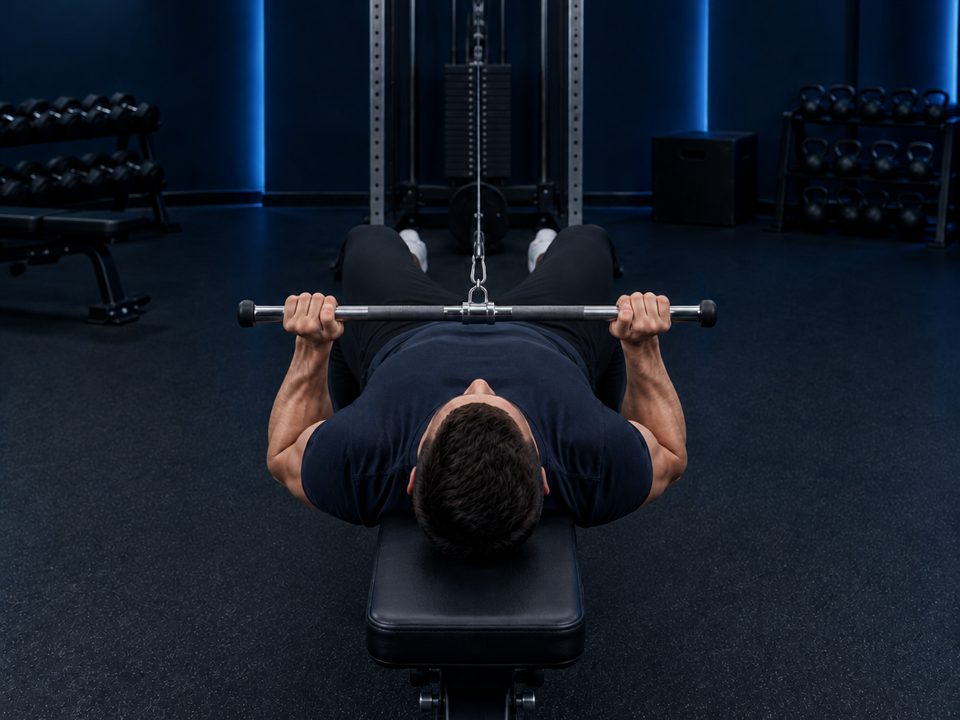
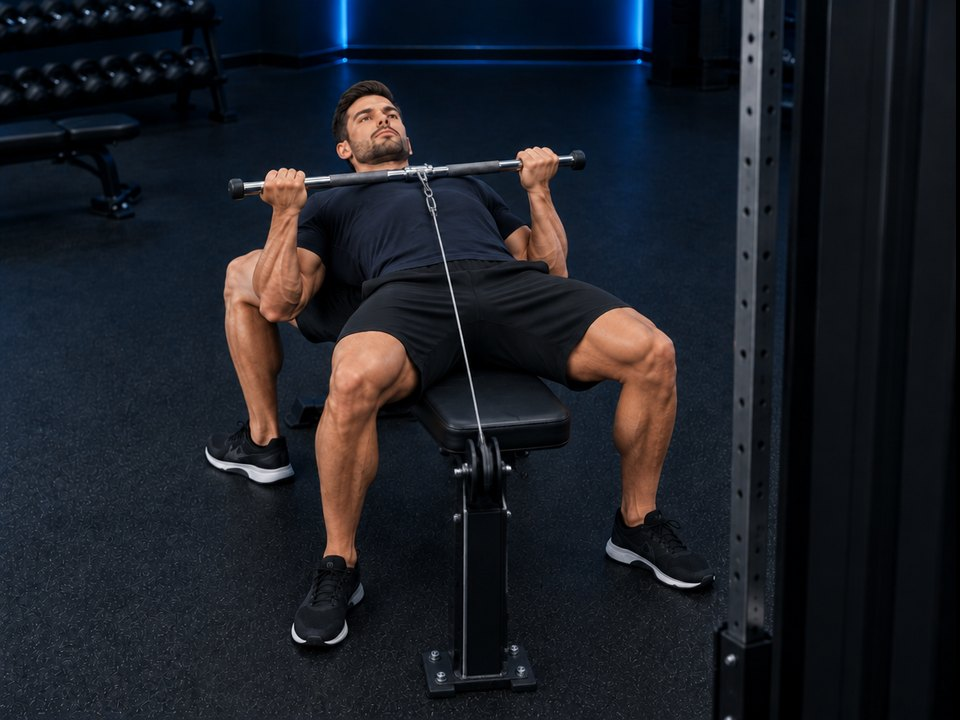
Bizeps Curl liegend am Kabel: Foto schräg vom Fußende mit Untergriff
Die Stange liegt quer, das Kabel läuft aus ihrer Mitte zwischen den Knien
zur Rolle auf Bankhöhe, die Handrücken zeigen den Untergriff.

Claude-Session: https://claude.ai/code/session_01MPv65TyRWfLE6TBM7iE6xk

diff --git a/apps/pwa/sw.js b/apps/pwa/sw.js
@@ -6,7 +6,7 @@
  * ist der einzige Weg, den Nutzer zu erreichen, waehrend die App geschlossen
  * ist. Siehe workers/push.
  */
-const CACHE = "daevo-v125";
+const CACHE = "daevo-v126";
 const ASSETS = [
   "./",
   "./index.html",

diff --git a/CLAUDE.md b/CLAUDE.md
@@ -276,10 +276,14 @@ Strichfiguren, keine Clip Art, keine Karten mit Rahmen um Text.
   Fliegende.
 - Bizeps Curl liegend am Kabel, `curl-kabel-liegend`: flache Bank vor dem
   Turm, Rolle auf Bankhöhe, rücklings mit den Füßen zum Turm, die Stange aus
-  gestreckten Armen zum Kinn, Ellbogen bleiben am Körper. Das Foto ist von der
-  Kopfseite der Bank aufgenommen: in der Seitenansicht und schräg von vorn
-  legte das Bildmodell die Stange in vier von vier Fassungen längs zum Körper
-  und hängte das Kabel an ein Ende. Vorlage für die Haltung war das Video von
+  gestreckten Armen zum Kinn, Ellbogen bleiben am Körper, Untergriff wie beim
+  stehenden Curl. Das Foto ist schräg von oben am Fußende aufgenommen: die
+  Stange liegt dort quer im Bild, das Kabel läuft gerade aus ihrer Mitte
+  zwischen den Knien zur Rolle, und man sieht die Handrücken, also den
+  Untergriff. In der Seitenansicht und schräg vom Kopfende legte das
+  Bildmodell die Stange in acht von acht Fassungen längs zum Körper und
+  hängte das Kabel an ein Ende. Die erste Fassung von der Kopfseite zeigte
+  den Griff wie einen Obergriff. Vorlage für die Haltung war das Video von
   Coach Aaron, gezeigt wird ein anderes Modell.
 - Fotos an der Multipresse oder mit Langhantel werden von vorn oder schräg
   vorn erzeugt. In der Seitenansicht legte das Bildmodell die Stange bei sechs
